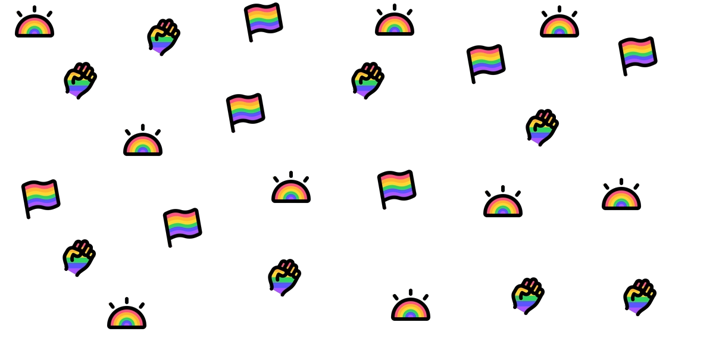
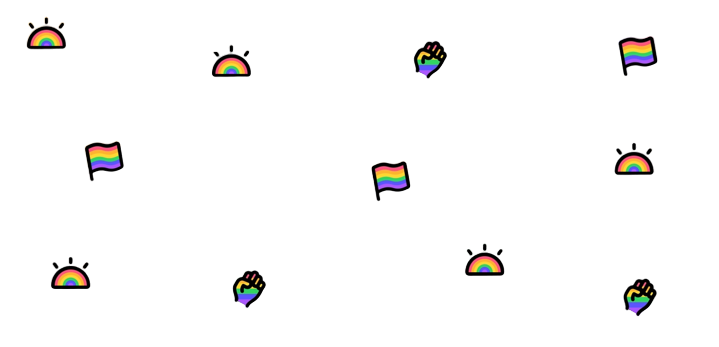
tentando arumar as img de fundo
parecia um pouco vazio entao agente colocou essas img so para ocupar espaço

diff --git a/index.css b/index.css
@@ -64,9 +64,10 @@ a {
 }
 .lfoto1 {
   box-shadow: 2px 1px 5px 0px;
-  border-radius: 15%;
-  height: 25vw;
-  width: 25vw;
+    border-radius: 15%;
+    height: 20vw;
+    width: 19vw;
+    border: solid brown;
 }
 .lproj {
   padding-top: 15%;
@@ -118,8 +119,8 @@ a {
   font-family: "Montserrat";
 }
 .donation-container {
-  background-image: url(./img/plano_de_fundo-removebg-preview.png);
-  
+  background-image: url(./img/plano_de_fundo-removebg-preview5-PhotoRoom_1.png);
+  /*background-repeat: no-repeat;*/
   display: flex;
   flex-direction: column;
   align-items: center;
@@ -425,14 +426,13 @@ footer {
 }
 .botao-doar-page1 {
   border: 0;
-  font-size: 100%;
-  width: 150px;
-  height: 57px;
-  color: white;
-  background-color: rgb(0, 0, 0);
-  border-radius: 30px;
-  cursor: pointer;
- 
+    font-size: 100%;
+    width: 128px;
+    height: 45px;
+    color: #ffffff;
+    background-color: rgb(0 0 0);
+    border-radius: 30px;
+    cursor: pointer;
 
 }
 .img-logo-page1 {
@@ -455,11 +455,11 @@ footer {
 }
 
 .texto-encimada-img-page1 {
-  padding-left: 22vw;
-  padding-top: 9vh;
-  font-size: 300%;
-  font-family: Arial, Helvetica, sans-serif;
-  color: #ffff;
+  padding-left: 14vw;
+    padding-top: 9vh;
+    font-size: 300%;
+    font-family: Arial, Helvetica, sans-serif;
+    color: #ffff;
 }
 
 .img-texto-page1 {
@@ -478,7 +478,7 @@ footer {
 .foto-da-ong-page1 {
   height: 92vh;
   width: 99vw;
-  opacity: 60%;
+  opacity: 87%;
 }
 
 .div-do-texto-encimada-img-page1 {
